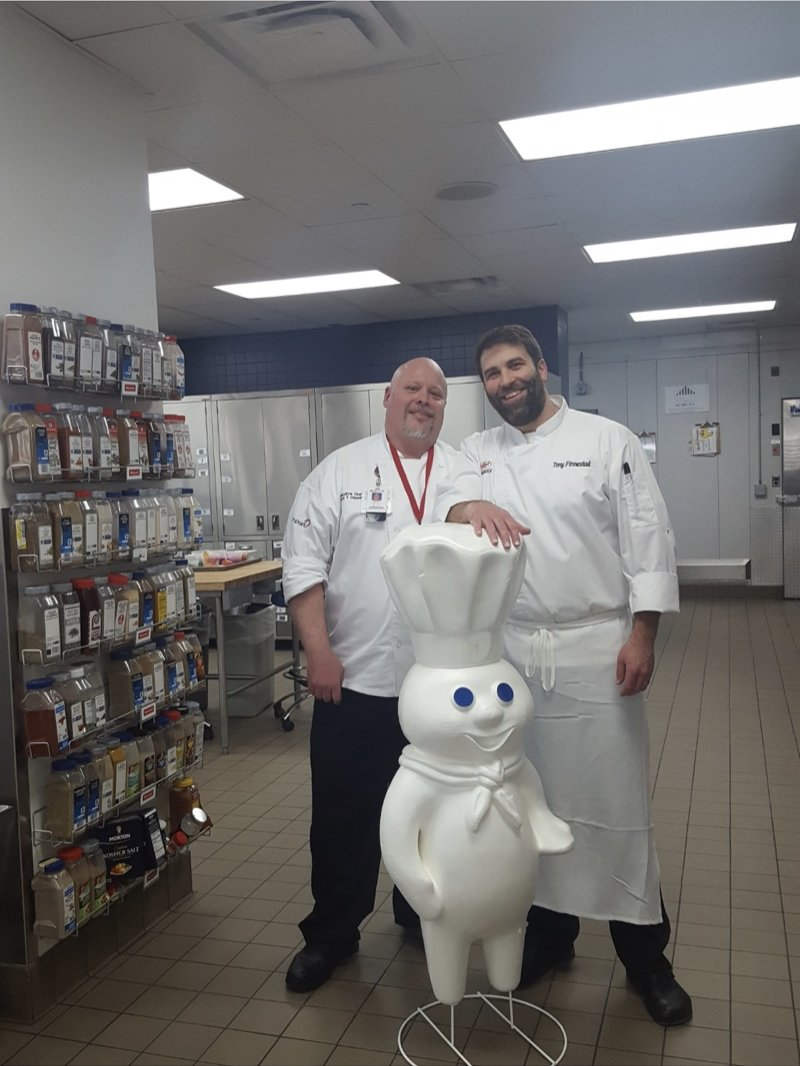
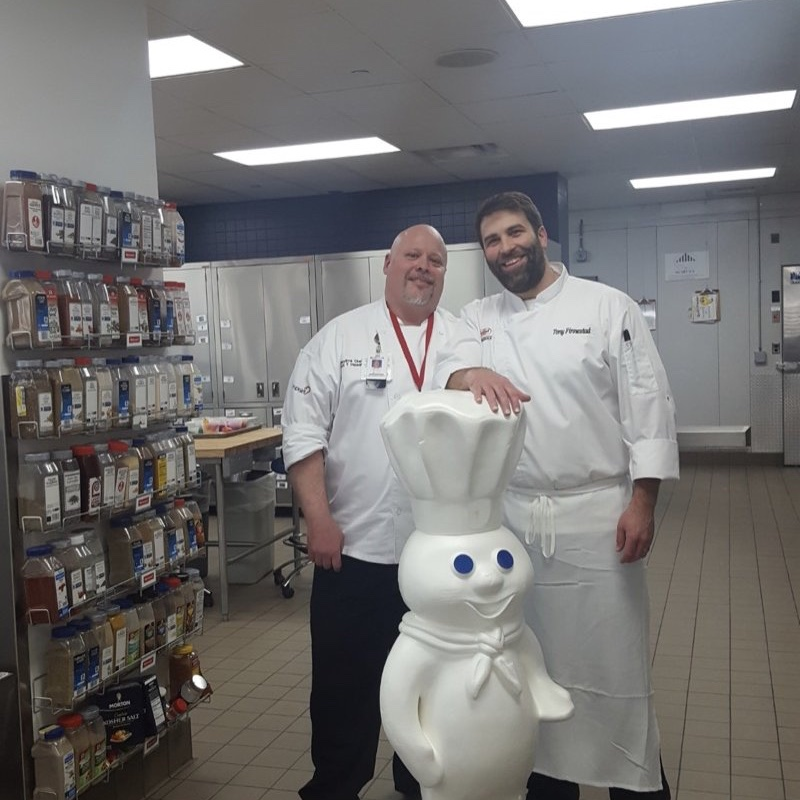
Add motorcycle photo to About story section as vertical image stack
- Crop culinary career photo to 800x800 square to focus on subjects
- Optimize motorcycle photo to 800px wide at 85% JPEG quality
- Stack both images vertically with 16px gap, matching border-radius
- Mobile layout keeps existing stacked behavior above text content

diff --git a/about/index.html b/about/index.html
@@ -141,10 +141,14 @@
             <p>I became an independent agent because I believe everyone deserves someone in their corner who will shop the entire market on their behalf &mdash; not just sell whatever one company tells them to push. When you work with me, you get honest advice, a real person who picks up the phone, and a plan that's actually built around your needs.</p>
             <p>I live right here in Brevard County with my wife, our four daughters, and a small pack of dogs who pretty much run the house. When I'm not helping clients find better coverage, you'll find me spending time with family, enjoying the Florida outdoors, or still cooking &mdash; old habits die hard.</p>
           </div>
-          <div class="about-story-photo">
+          <div class="about-story-photo about-story-photo-stack">
             <img src="/images/about/scott-howell-culinary-career.jpg"
                  alt="Scott Howell during his culinary career, working in a professional kitchen"
-                 width="800" height="600"
+                 width="800" height="800"
+                 loading="lazy">
+            <img src="/images/about/scott-howell-insurance-agent-motorcycle.jpg"
+                 alt="Scott Howell on his motorcycle"
+                 width="800" height="795"
                  loading="lazy">
           </div>
         </div>

diff --git a/css/style.css b/css/style.css
@@ -1140,6 +1140,12 @@ p + p { margin-top: 1em; }
   object-fit: cover;
 }
 
+.about-story-photo-stack {
+  display: flex;
+  flex-direction: column;
+  gap: 16px;
+}
+
 /* About Credentials */
 .about-credentials {
   background: var(--light-bg);
